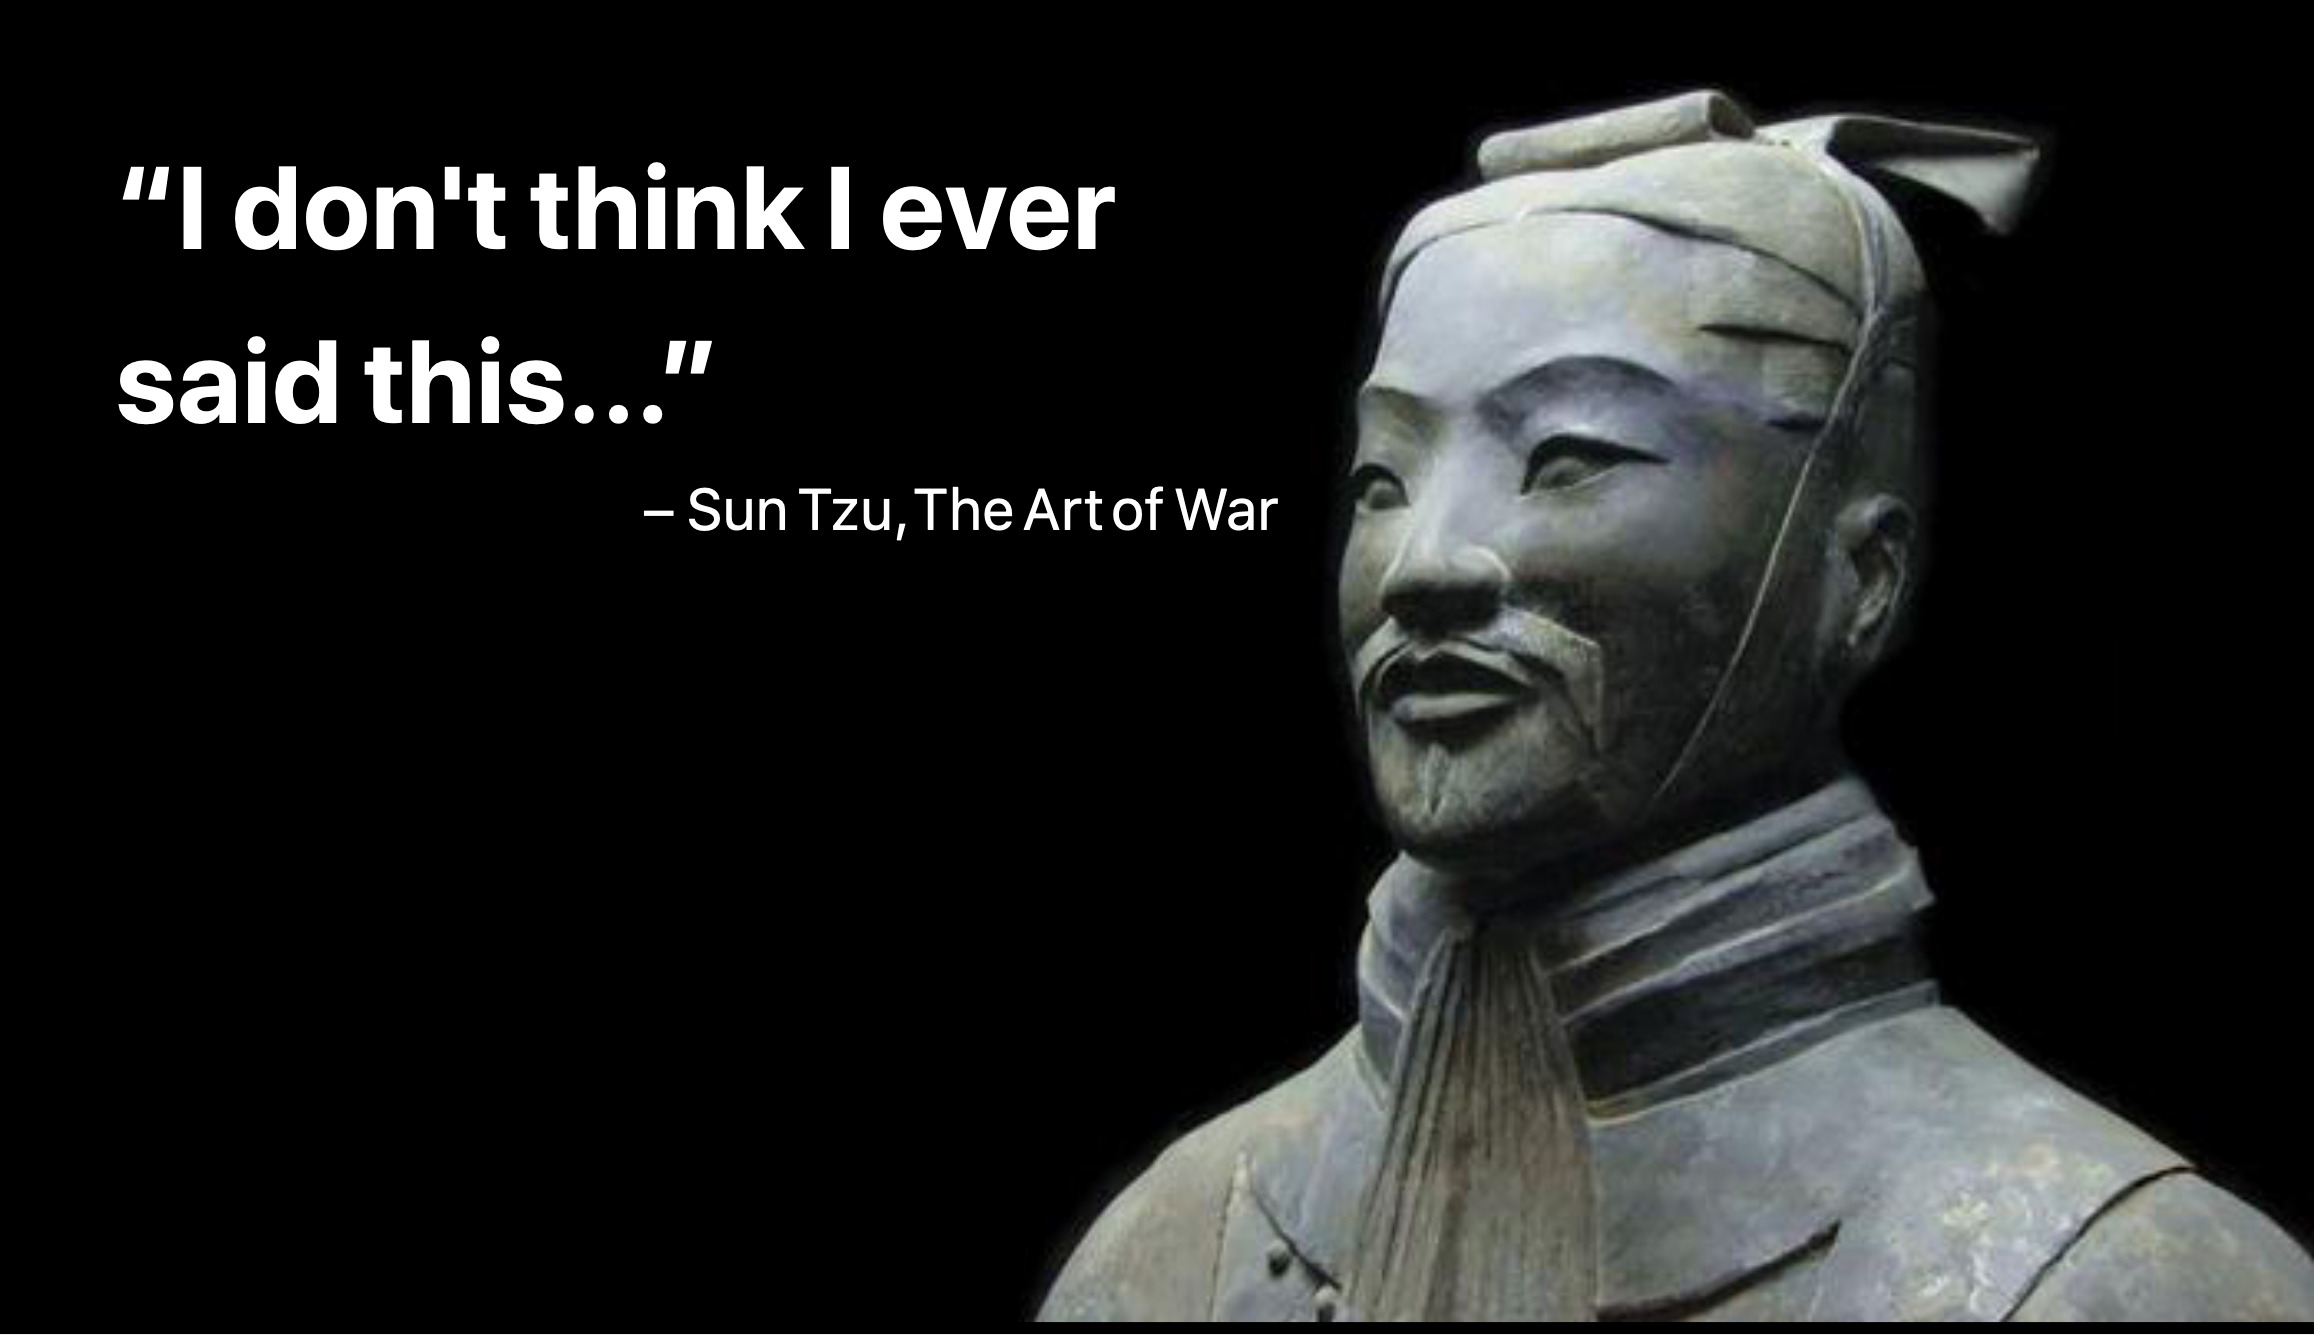
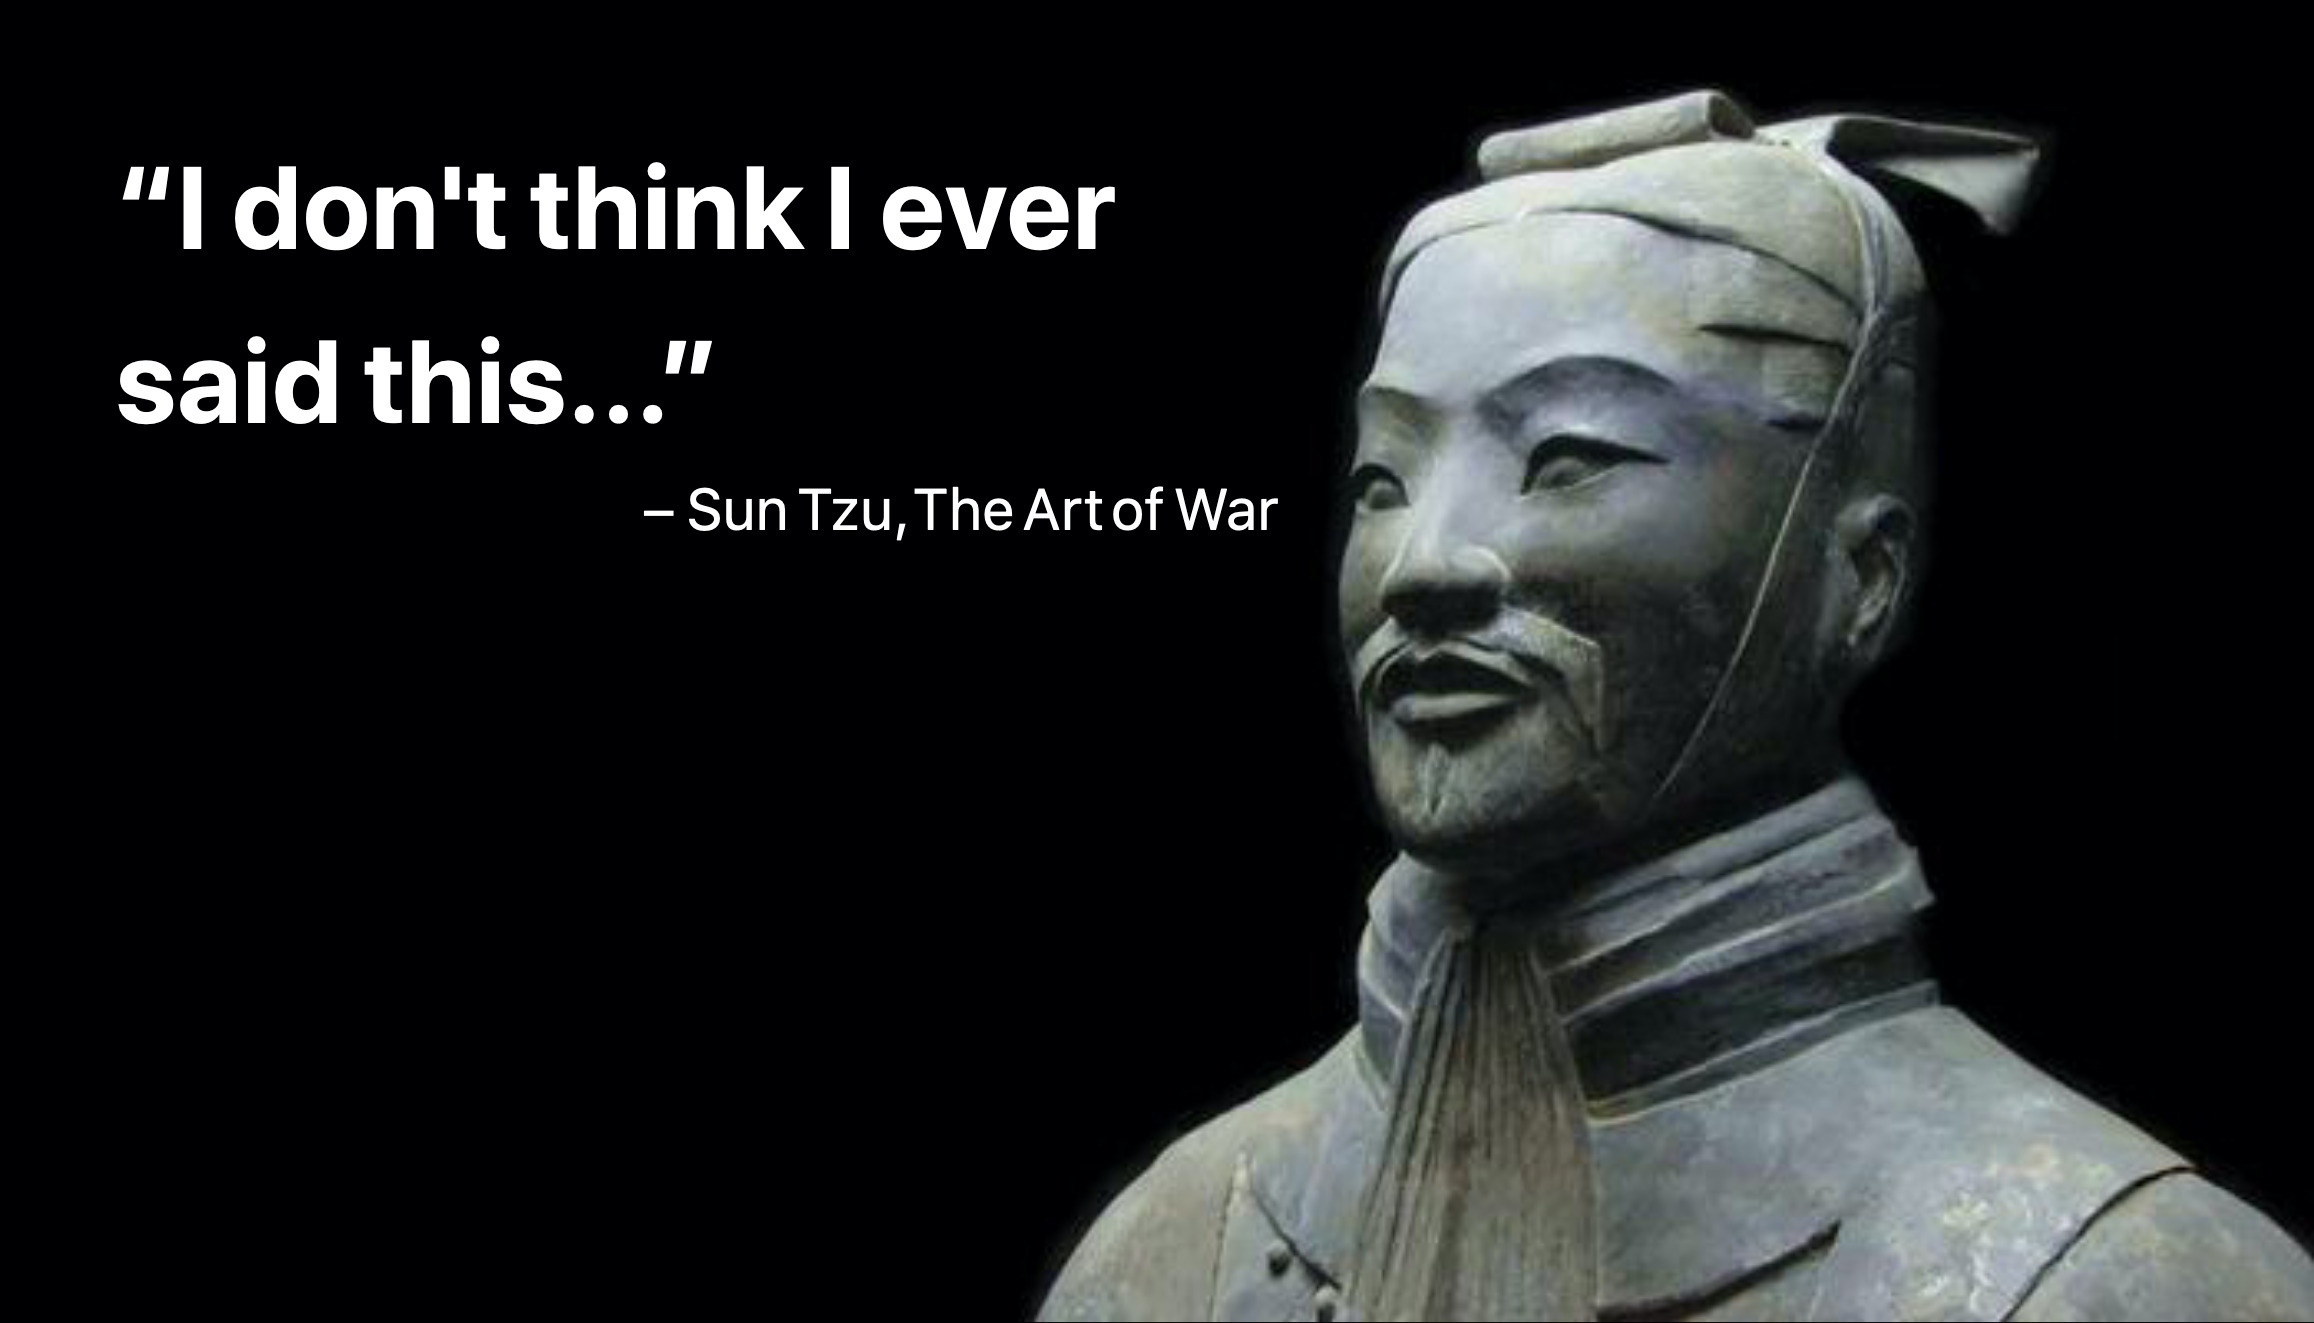
Fix black lines

diff --git a/index.html b/index.html
@@ -64,7 +64,7 @@
 			</div>
 		</div>
 	</div>
-	<div style="width: 0; height: 0; overflow: hidden;">
+	<div style="width: 0; height: 0; overflow: hidden; background: black;">
 		<div id="processingContainer" style="position: relative; background: black; width: 100vw;">
 			<img src="images/sun-tzu-statue.jpg" style="width: 100%;">
 			<div style="position: absolute; left: 0; top: 0; width: 50%; height: 80%; margin: 5vw;">
